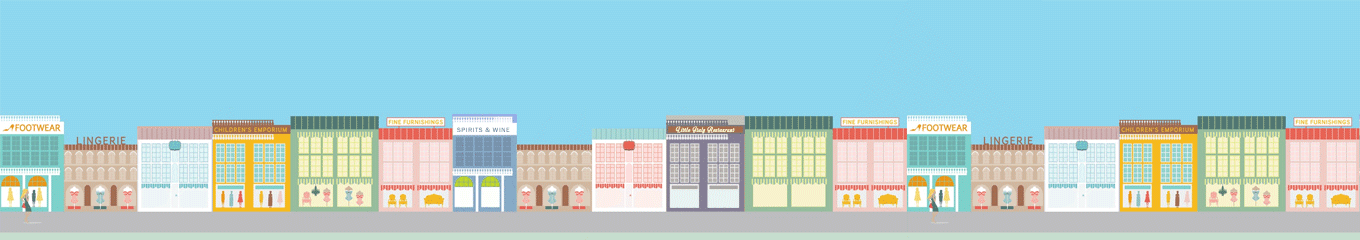
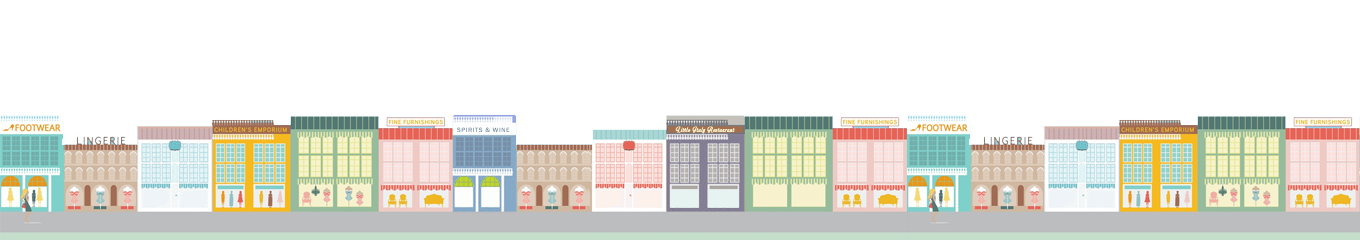
finished cloud animation on homepage

diff --git a/public/css/custom.css b/public/css/custom.css
@@ -14,6 +14,8 @@ body {
     /*width: 820px; downsize our container to make the content feel a bit tighter and more cohesive. NOTE: this removes two full columns from the grid, meaning you only go to 14 columns and not 16. */
 }
 
+.container-fluid{padding:0!important;margin:0!important;}
+
 /* The white background content wrapper
 .container > .content {
     background-color: #fff;
@@ -70,5 +72,140 @@ body {
 
 /*bootstrap overrides*/
 .topbar h3 a, .topbar .brand{font-weight: bold;}
+#container-scene{position:relative;width:100%;height:240px;overflow: hidden;}
+#market-scene{position:absolute;z-index:9;top:0;left:0;background:url(../img/layout/canvas/market-scene-bg.png) no-repeat 0 0; width:100%; height:240px;}
 
-#container-market-anime{background:url(../img/layout/canvas/market-scene-bg.png) no-repeat 0 0; width:100%; height:240px;}
+/*clouds*/
+/*Lets start with the cloud formation rather*/
+
+/*The container will also serve as the SKY*/
+
+*{ margin: 0; padding: 0;}
+
+body {
+    /*To hide the horizontal scroller appearing during the animation*/
+    overflow: hidden;
+}
+
+#clouds{
+    position: absolute;
+    z-index: 1;
+    top:0;
+    left:0;
+    width:100%;
+    height:240px;
+    margin:0;
+    padding:0;
+    background: #c9dbe9;
+    background: -webkit-linear-gradient(top, #c9dbe9 0%, #fff 100%);
+    background: -linear-gradient(top, #c9dbe9 0%, #fff 100%);
+    background: -moz-linear-gradient(top, #c9dbe9 0%, #fff 100%);
+}
+
+/*Time to finalise the cloud shape*/
+.cloud {
+    width: 200px; height: 60px;
+    background: #fff;
+
+    border-radius: 200px;
+    -moz-border-radius: 200px;
+    -webkit-border-radius: 200px;
+
+    position: relative;
+}
+
+.cloud:before, .cloud:after {
+    content: '';
+    position: absolute;
+    background: #fff;
+    width: 100px; height: 80px;
+    position: absolute; top: -15px; left: 10px;
+
+    border-radius: 100px;
+    -moz-border-radius: 100px;
+    -webkit-border-radius: 100px;
+
+    -webkit-transform: rotate(30deg);
+    transform: rotate(30deg);
+    -moz-transform: rotate(30deg);
+}
+
+.cloud:after {
+    width: 120px; height: 120px;
+    top: -55px; left: auto; right: 15px;
+}
+
+/*Time to animate*/
+.x1 {
+    -webkit-animation: moveclouds 15s linear infinite;
+    -moz-animation: moveclouds 15s linear infinite;
+    -o-animation: moveclouds 15s linear infinite;
+}
+
+/*variable speed, opacity, and position of clouds for realistic effect*/
+.x2 {
+    left: 200px;
+
+    -webkit-transform: scale(0.6);
+    -moz-transform: scale(0.6);
+    transform: scale(0.6);
+    opacity: 0.6; /*opacity proportional to the size*/
+
+    /*Speed will also be proportional to the size and opacity*/
+    /*More the speed. Less the time in 's' = seconds*/
+    -webkit-animation: moveclouds 25s linear infinite;
+    -moz-animation: moveclouds 25s linear infinite;
+    -o-animation: moveclouds 25s linear infinite;
+}
+
+.x3 {
+    left: -250px; top: -200px;
+
+    -webkit-transform: scale(0.8);
+    -moz-transform: scale(0.8);
+    transform: scale(0.8);
+    opacity: 0.8; /*opacity proportional to the size*/
+
+    -webkit-animation: moveclouds 20s linear infinite;
+    -moz-animation: moveclouds 20s linear infinite;
+    -o-animation: moveclouds 20s linear infinite;
+}
+
+.x4 {
+    left: 470px; top: -250px;
+
+    -webkit-transform: scale(0.75);
+    -moz-transform: scale(0.75);
+    transform: scale(0.75);
+    opacity: 0.75; /*opacity proportional to the size*/
+
+    -webkit-animation: moveclouds 18s linear infinite;
+    -moz-animation: moveclouds 18s linear infinite;
+    -o-animation: moveclouds 18s linear infinite;
+}
+
+.x5 {
+    left: -150px; top: -150px;
+
+    -webkit-transform: scale(0.8);
+    -moz-transform: scale(0.8);
+    transform: scale(0.8);
+    opacity: 0.8; /*opacity proportional to the size*/
+
+    -webkit-animation: moveclouds 60s linear infinite;
+    -moz-animation: moveclouds 60s linear infinite;
+    -o-animation: moveclouds 60s linear infinite;
+}
+
+@-webkit-keyframes moveclouds {
+    0% {margin-left: 1000px;}
+    100% {margin-left: -1000px;}
+}
+@-moz-keyframes moveclouds {
+    0% {margin-left: 1000px;}
+    100% {margin-left: -1000px;}
+}
+@-o-keyframes moveclouds {
+    0% {margin-left: 1000px;}
+    100% {margin-left: -1000px;}
+}
